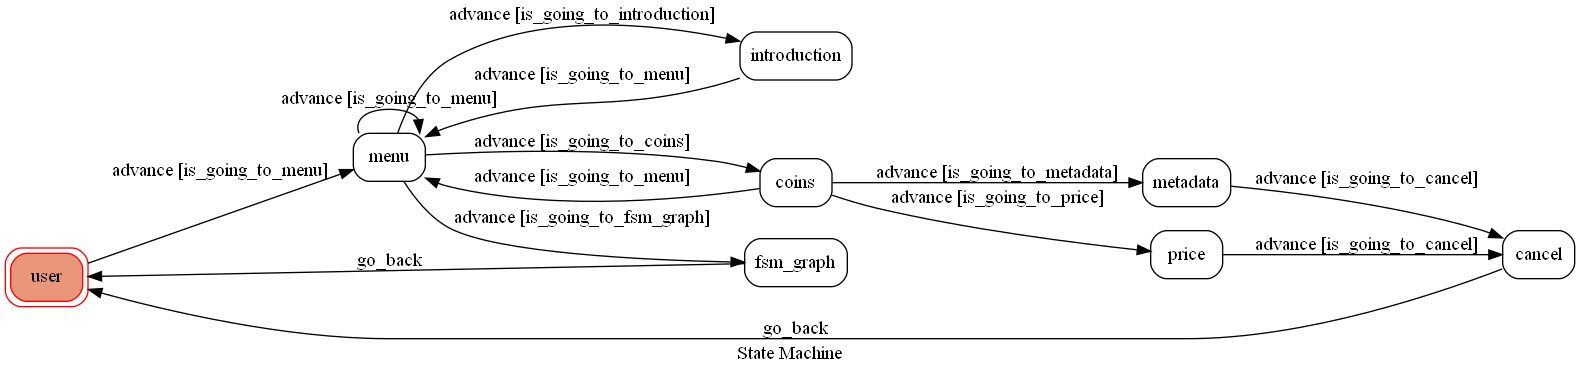
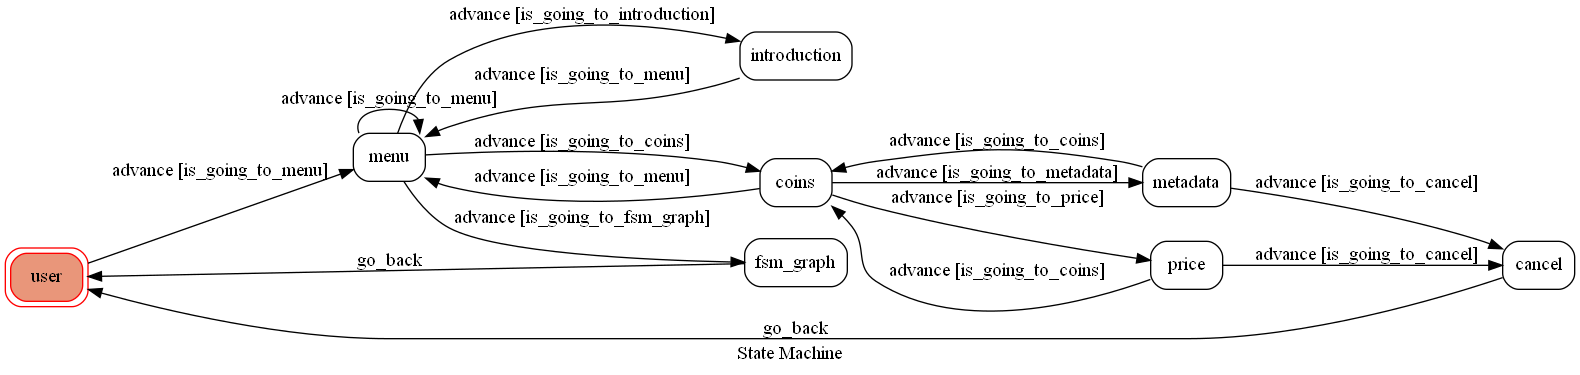
Update fsm.png

diff --git a/app.py b/app.py
@@ -79,9 +79,21 @@ machine = TocMachine(
         },
         {
             "trigger": "advance",
+            "source": "price",
+            "dest": "coins",
+            "conditions": "is_going_to_coins",
+        },
+        {
+            "trigger": "advance",
             "source": "metadata",
             "dest": "cancel",
             "conditions": "is_going_to_cancel",
+        },
+        {
+            "trigger": "advance",
+            "source": "metadata",
+            "dest": "coins",
+            "conditions": "is_going_to_coins",
         },
 
         {"trigger": "go_back", "source": ["fsm_graph", "cancel"], "dest": "user"},
